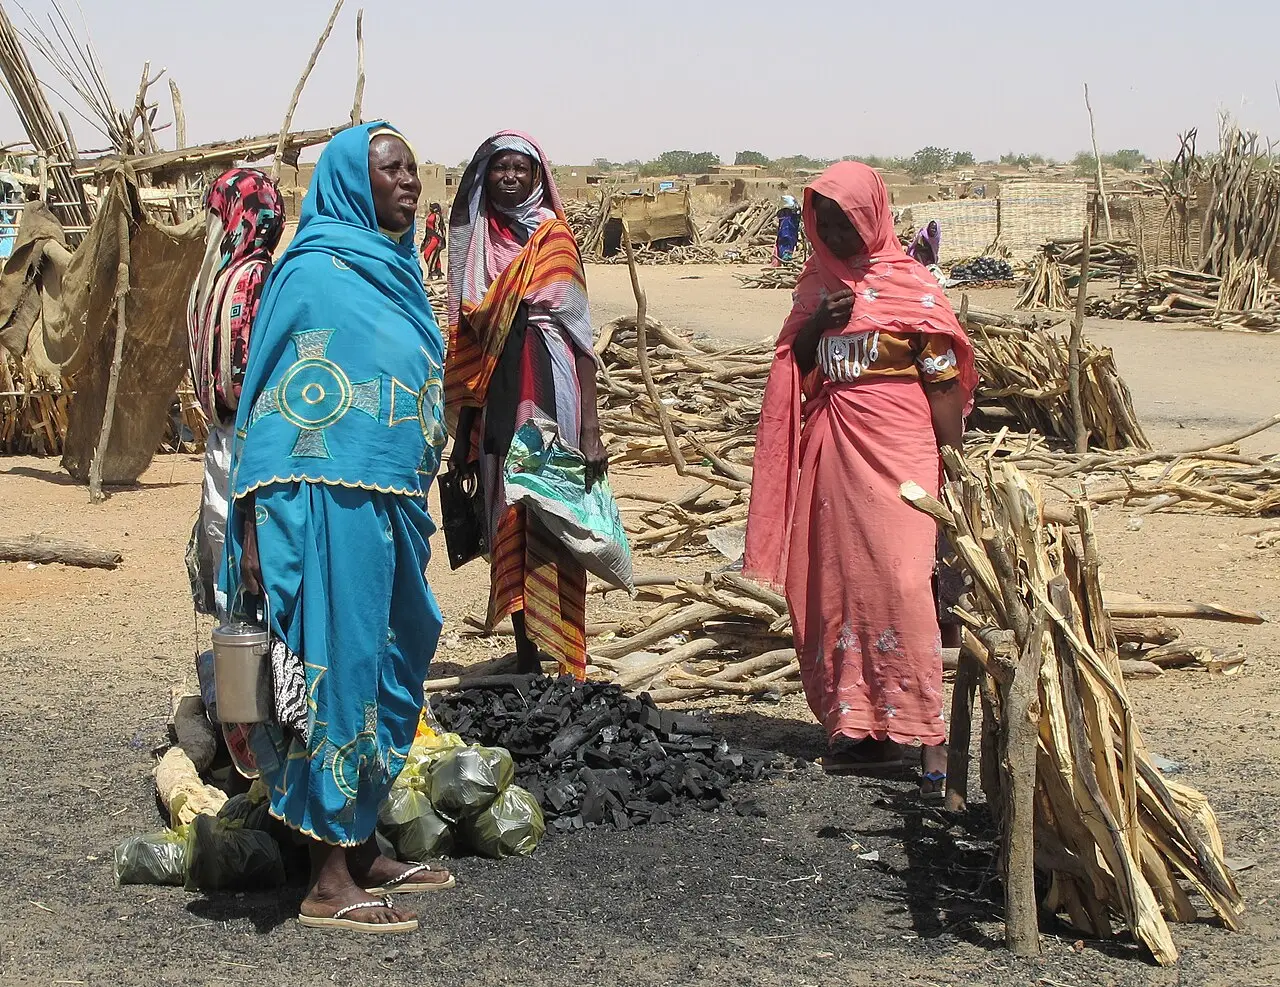
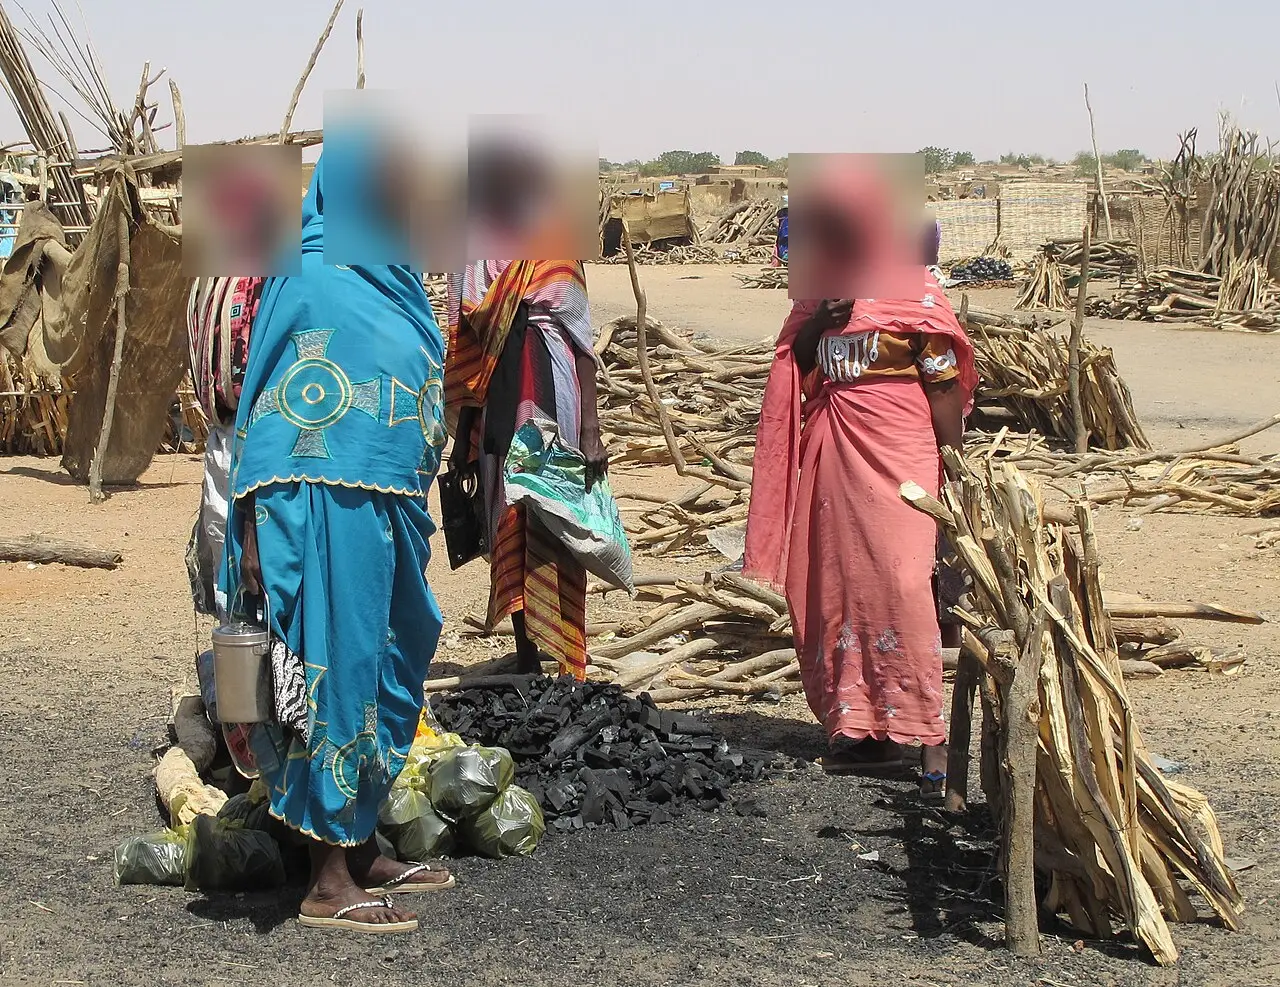
Focus Sudan: blur all faces in Adré and El Fasher photos
Claude-Session: https://claude.ai/code/session_01BJRqo8LpJ8hAQMrCsjYyd3

Changed region(s): [[0.125, 0.0912, 0.4688, 0.304], [0.5938, 0.152, 0.75, 0.304]]

diff --git a/focus/sudan-war.html b/focus/sudan-war.html
@@ -65,9 +65,9 @@ footer{font-size:12.5px;color:var(--muted);border-top:1px solid var(--rule);padd
 <header style="display:grid;gap:10px"><span class="kicker">Focus · Sudan</span><h1>Sudan&#x27;s long war</h1><p class="dek">Since 15 April 2023, fighting between Sudan&#x27;s army and the paramilitary Rapid Support Forces has killed at least 59,000 people by one count, and possibly far more, and driven about 13 million from their homes. Both sides deny targeting civilians. The war now reaches into Abyei and South Sudan.</p>
 <div class="meta"><span>Updated 22 Oct 2026</span><span>Life &amp; safety · Displacement · Food</span><span>4 photos</span></div>
 <a class="allf" href="./">Looking for another story? See all Focus stories →</a></header>
-<section class="cover"><figure><img src="../images/focus/sudan-war/adre-refugees-aid-2026.webp" alt="Women in long robes and headscarves walk across sandy ground carrying bags and boxes of supplies on their heads and in their arms, with more people behind them." loading="lazy" decoding="async"><figcaption><b>Photo from the event</b>Sudanese refugees carry aid supplies in Adré, eastern Chad, on 3 February 2026. The town had 40,000 people before the war and now hosts more than 180,000 refugees, the UK government says.<span class="cr">Photo: <a href="https://commons.wikimedia.org/wiki/File:Foreign_Secretary_Yvette_Cooper_meets_Sudanese_civil_war_refugees_in_Adr%C3%A9,_eastern_Chad_on_3_February_2026_-_6.jpg">Russell Watkins / FCDO, via Wikimedia Commons</a>, <a href="https://creativecommons.org/licenses/by/4.0">CC BY 4.0</a> (resized)</span></figcaption></figure></section>
+<section class="cover"><figure><img src="../images/focus/sudan-war/adre-refugees-aid-2026.webp" alt="Women in long robes and headscarves walk across sandy ground carrying bags and boxes of supplies on their heads and in their arms, with more people behind them." loading="lazy" decoding="async"><figcaption><b>Photo from the event</b>Sudanese refugees carry aid supplies in Adré, eastern Chad, on 3 February 2026. The town had 40,000 people before the war and now hosts more than 180,000 refugees, the UK government says.<span class="cr">Photo: <a href="https://commons.wikimedia.org/wiki/File:Foreign_Secretary_Yvette_Cooper_meets_Sudanese_civil_war_refugees_in_Adr%C3%A9,_eastern_Chad_on_3_February_2026_-_6.jpg">Russell Watkins / FCDO, via Wikimedia Commons</a>, <a href="https://creativecommons.org/licenses/by/4.0">CC BY 4.0</a> (resized, faces blurred)</span></figcaption></figure></section>
 <section class="figs" aria-label="Key numbers"><div class="fig"><b>59,000+</b><span>killed, ACLED count (estimates up to 150,000)</span><a href="https://www.cp24.com/news/world/2026/06/17/drone-strikes-kill-over-1000-civilians-in-sudan-in-first-5-months-of-2026-un-rights-chief-says/">AP via CP24</a></div><div class="fig"><b>~13M</b><span>people displaced</span><a href="https://www.aljazeera.com/news/2026/10/7/sudans-al-burhan-rejects-talks-vows-to-retake-all-territory-from-rsf">Al Jazeera</a></div><div class="fig"><b>6,000+</b><span>killed in 3 days in El Fasher (UN)</span><a href="https://www.opb.org/article/2026/02/15/un-says-at-least-6000-killed-over-3-days-during-rsf-attack-on-sudans-el-fasher/">AP via OPB</a></div><div class="fig"><b>19.5M</b><span>facing high acute hunger (IPC, May 2026)</span><a href="https://wtop.com/news/2026/05/over-40-of-sudans-population-face-high-levels-of-acute-food-insecurity-monitoring-group-warns/">AP via WTOP</a></div></section>
-<section style="display:grid;gap:14px"><div class="sec-h"><h2>What is happening</h2></div><div class="chaps"><div class="chap"><figure><img src="../images/focus/sudan-war/al-jaili-refinery-smoke-2025.webp" alt="A satellite view of brown desert and the green line of the Nile, with a long dark plume of smoke drifting south." loading="lazy" decoding="async"><figcaption><b>Photo from the event</b>A satellite image from 24 January 2025 shows black smoke from a fire at the Al-Jaili oil refinery, about 60 km north of Khartoum, drifting over the capital.<span class="cr">Photo: <a href="https://commons.wikimedia.org/wiki/File:Refinery_Fire_in_Sudan_(MODIS_2025-01-26).jpg">NASA Earth Observatory (MODIS, Aqua) / Wikimedia Commons</a>, <a href="https://commons.wikimedia.org/wiki/File:Refinery_Fire_in_Sudan_(MODIS_2025-01-26).jpg">Public domain (NASA)</a> (resized)</span></figcaption></figure><p>The war broke out in Khartoum on 15 April 2023, after the army and the Rapid Support Forces split over plans to fold the paramilitary into the military. The conflict monitor ACLED has recorded at least 59,000 deaths in three years and says the real toll is likely higher; in 2024 the US envoy cited estimates of up to 150,000. Both sides now use armed drones: the UN human rights office recorded more than 1,000 civilians killed by drone strikes between January and May 2026. <span class="src"><a href="https://www.cp24.com/news/world/2026/06/17/drone-strikes-kill-over-1000-civilians-in-sudan-in-first-5-months-of-2026-un-rights-chief-says/">AP via CP24</a> · <a href="https://www.aljazeera.com/news/2026/10/7/sudans-al-burhan-rejects-talks-vows-to-retake-all-territory-from-rsf">Al Jazeera</a> · <a href="https://acleddata.com/methodology/how-interpret-acleds-fatality-records-sudan">ACLED</a></span></p></div><div class="chap"><figure><img src="../images/focus/sudan-war/el-fasher-charcoal-market-2015.webp" alt="Three women in brightly coloured robes stand beside piles of firewood and charcoal at an open-air market." loading="lazy" decoding="async"><figcaption><b>File photo · 2015</b>Displaced women sell charcoal at a market in El Fasher, North Darfur, in 2015, years before the RSF siege of the city.<span class="cr">Photo: <a href="https://commons.wikimedia.org/wiki/File:ElFasherDarfurSudan_RomanDeckert18022015.jpg">Roman Deckert / Wikimedia Commons</a>, <a href="https://creativecommons.org/licenses/by-sa/4.0">CC BY-SA 4.0</a> (resized)</span></figcaption></figure><p>In Darfur, the RSF and allied militias besieged El Fasher for more than 18 months and overran it on 26 October 2025. The UN human rights office says more than 6,000 people were killed in just over three days: at least 4,400 inside the city and more than 1,600 as they fled. It says the real toll is “undoubtedly significantly higher” and that sexual violence was used systematically as a weapon of war. <span class="src"><a href="https://www.opb.org/article/2026/02/15/un-says-at-least-6000-killed-over-3-days-during-rsf-attack-on-sudans-el-fasher/">AP via OPB</a></span></p></div><div class="chap"><figure><img src="../images/focus/sudan-war/abyei-aerial-2009.webp" alt="Flat, dry savannah dotted with trees and round huts, seen from an aircraft window." loading="lazy" decoding="async"><figcaption><b>File photo · 2009</b>Abyei and the surrounding plain, seen from a UN helicopter. The area is claimed by both Sudan and South Sudan.<span class="cr">Photo: <a href="https://commons.wikimedia.org/wiki/File:Sudan_Envoy_-_Abyei_from_Above.jpg">Sudan Envoy / Wikimedia Commons</a>, <a href="https://creativecommons.org/licenses/by/2.0">CC BY 2.0</a> (cropped)</span></figcaption></figure><p>The war crosses borders. On Monday 19 October 2026 a drone strike on Amiet Market in Abyei, an area claimed by both Sudan and South Sudan, killed at least 153 people, a local official says. South Sudan blames Sudan&#x27;s army; an unnamed Sudanese officer told AP the army hit fuel tankers bound for the RSF. In November 2025 an RSF drone attack on the Heglig oil facility halted production and exports in parts of Sudan and South Sudan, where oil brings in more than 90% of government revenue. <span class="src"><a href="https://www.aljazeera.com/news/2026/10/21/drone-attack-in-disputed-sudan-south-sudan-border-region-kills-at-least-153">Al Jazeera</a> · <a href="https://www.radiotamazuj.org/en/news/article/south-sudan-oil-production-halted-after-drone-attack">Radio Tamazuj</a></span></p></div><div class="chap"><p>About 13 million people have been forced from their homes; UNHCR says 4.3 million are refugees in neighbouring countries, most in Egypt and eastern Chad. Famine was confirmed in Zamzam camp in 2024 and in El Fasher and Kadugli in 2025. In May 2026 the IPC found no area in famine but 14 areas at risk, and nearly 19.5 million people, more than 40% of the population, facing high levels of acute food insecurity. <span class="src"><a href="https://www.aljazeera.com/news/2026/10/7/sudans-al-burhan-rejects-talks-vows-to-retake-all-territory-from-rsf">Al Jazeera</a> · <a href="https://www.dabangasudan.org/en?p=20128493">Radio Dabanga</a> · <a href="https://wfp.org/news/famine-conditions-confirmed-sudans-el-fasher-and-kadugli-hunger-and-malnutrition-ease-where">WFP</a> · <a href="https://wtop.com/news/2026/05/over-40-of-sudans-population-face-high-levels-of-acute-food-insecurity-monitoring-group-warns/">AP via WTOP</a></span></p></div><div class="chap"><p>Both sides face accusations. In January 2025 the US found that the RSF was committing genocide; in 2025 it also found that Sudan&#x27;s government had used chemical weapons in 2024, which Sudan denies. The International Criminal Court says it has “concrete evidence” linking RSF leaders to recent war crimes in Darfur. UN-led talks on a ceasefire resumed in Geneva in October 2026 without either warring party at the table. <span class="src"><a href="https://www.clickondetroit.com/news/world/2025/01/07/us-says-sudan-rebel-force-has-committed-genocide-and-it-imposes-sanctions-on-the-groups-leaders/">AP via ClickOnDetroit</a> · <a href="https://www.upi.com/Top_News/US/2025/05/23/Sudan-chemical-weapons/6801747971956/">UPI</a> · <a href="https://www.myjoyonline.com/international-court-tells-bbc-of-breakthrough-in-sudan-war-crimes-probe/">BBC via MyJoyOnline</a> · <a href="https://news.un.org/en/story/2026/10/1168638">UN News</a></span></p></div></div><div class="official"><b>Official position</b><p>Army chief Abdel Fattah al-Burhan rejects negotiations and says the “military option” will continue until the RSF is removed from Sudan. The RSF has repeatedly denied widespread killings in Darfur; its leader, Mohamed Hamdan Dagalo, has acknowledged abuses by his fighters but disputed their scale, and the RSF and its allies have formed a parallel government in areas they hold. The RSF did not respond to AP&#x27;s request for comment on the UN&#x27;s El Fasher findings. <span class="src"><a href="https://www.aljazeera.com/news/2026/10/7/sudans-al-burhan-rejects-talks-vows-to-retake-all-territory-from-rsf">Al Jazeera</a> · <a href="https://www.myjoyonline.com/international-court-tells-bbc-of-breakthrough-in-sudan-war-crimes-probe/">BBC via MyJoyOnline</a> · <a href="https://www.opb.org/article/2026/02/15/un-says-at-least-6000-killed-over-3-days-during-rsf-attack-on-sudans-el-fasher/">AP via OPB</a> · <a href="https://www.clickondetroit.com/news/2025/07/27/sudans-paramilitaries-announces-a-parallel-government-deepening-the-countrys-crisis/">AP via ClickOnDetroit</a></span></p></div></section>
+<section style="display:grid;gap:14px"><div class="sec-h"><h2>What is happening</h2></div><div class="chaps"><div class="chap"><figure><img src="../images/focus/sudan-war/al-jaili-refinery-smoke-2025.webp" alt="A satellite view of brown desert and the green line of the Nile, with a long dark plume of smoke drifting south." loading="lazy" decoding="async"><figcaption><b>Photo from the event</b>A satellite image from 24 January 2025 shows black smoke from a fire at the Al-Jaili oil refinery, about 60 km north of Khartoum, drifting over the capital.<span class="cr">Photo: <a href="https://commons.wikimedia.org/wiki/File:Refinery_Fire_in_Sudan_(MODIS_2025-01-26).jpg">NASA Earth Observatory (MODIS, Aqua) / Wikimedia Commons</a>, <a href="https://commons.wikimedia.org/wiki/File:Refinery_Fire_in_Sudan_(MODIS_2025-01-26).jpg">Public domain (NASA)</a> (resized)</span></figcaption></figure><p>The war broke out in Khartoum on 15 April 2023, after the army and the Rapid Support Forces split over plans to fold the paramilitary into the military. The conflict monitor ACLED has recorded at least 59,000 deaths in three years and says the real toll is likely higher; in 2024 the US envoy cited estimates of up to 150,000. Both sides now use armed drones: the UN human rights office recorded more than 1,000 civilians killed by drone strikes between January and May 2026. <span class="src"><a href="https://www.cp24.com/news/world/2026/06/17/drone-strikes-kill-over-1000-civilians-in-sudan-in-first-5-months-of-2026-un-rights-chief-says/">AP via CP24</a> · <a href="https://www.aljazeera.com/news/2026/10/7/sudans-al-burhan-rejects-talks-vows-to-retake-all-territory-from-rsf">Al Jazeera</a> · <a href="https://acleddata.com/methodology/how-interpret-acleds-fatality-records-sudan">ACLED</a></span></p></div><div class="chap"><figure><img src="../images/focus/sudan-war/el-fasher-charcoal-market-2015.webp" alt="Three women in brightly coloured robes stand beside piles of firewood and charcoal at an open-air market." loading="lazy" decoding="async"><figcaption><b>File photo · 2015</b>Displaced women sell charcoal at a market in El Fasher, North Darfur, in 2015, years before the RSF siege of the city.<span class="cr">Photo: <a href="https://commons.wikimedia.org/wiki/File:ElFasherDarfurSudan_RomanDeckert18022015.jpg">Roman Deckert / Wikimedia Commons</a>, <a href="https://creativecommons.org/licenses/by-sa/4.0">CC BY-SA 4.0</a> (resized, faces blurred)</span></figcaption></figure><p>In Darfur, the RSF and allied militias besieged El Fasher for more than 18 months and overran it on 26 October 2025. The UN human rights office says more than 6,000 people were killed in just over three days: at least 4,400 inside the city and more than 1,600 as they fled. It says the real toll is “undoubtedly significantly higher” and that sexual violence was used systematically as a weapon of war. <span class="src"><a href="https://www.opb.org/article/2026/02/15/un-says-at-least-6000-killed-over-3-days-during-rsf-attack-on-sudans-el-fasher/">AP via OPB</a></span></p></div><div class="chap"><figure><img src="../images/focus/sudan-war/abyei-aerial-2009.webp" alt="Flat, dry savannah dotted with trees and round huts, seen from an aircraft window." loading="lazy" decoding="async"><figcaption><b>File photo · 2009</b>Abyei and the surrounding plain, seen from a UN helicopter. The area is claimed by both Sudan and South Sudan.<span class="cr">Photo: <a href="https://commons.wikimedia.org/wiki/File:Sudan_Envoy_-_Abyei_from_Above.jpg">Sudan Envoy / Wikimedia Commons</a>, <a href="https://creativecommons.org/licenses/by/2.0">CC BY 2.0</a> (cropped)</span></figcaption></figure><p>The war crosses borders. On Monday 19 October 2026 a drone strike on Amiet Market in Abyei, an area claimed by both Sudan and South Sudan, killed at least 153 people, a local official says. South Sudan blames Sudan&#x27;s army; an unnamed Sudanese officer told AP the army hit fuel tankers bound for the RSF. In November 2025 an RSF drone attack on the Heglig oil facility halted production and exports in parts of Sudan and South Sudan, where oil brings in more than 90% of government revenue. <span class="src"><a href="https://www.aljazeera.com/news/2026/10/21/drone-attack-in-disputed-sudan-south-sudan-border-region-kills-at-least-153">Al Jazeera</a> · <a href="https://www.radiotamazuj.org/en/news/article/south-sudan-oil-production-halted-after-drone-attack">Radio Tamazuj</a></span></p></div><div class="chap"><p>About 13 million people have been forced from their homes; UNHCR says 4.3 million are refugees in neighbouring countries, most in Egypt and eastern Chad. Famine was confirmed in Zamzam camp in 2024 and in El Fasher and Kadugli in 2025. In May 2026 the IPC found no area in famine but 14 areas at risk, and nearly 19.5 million people, more than 40% of the population, facing high levels of acute food insecurity. <span class="src"><a href="https://www.aljazeera.com/news/2026/10/7/sudans-al-burhan-rejects-talks-vows-to-retake-all-territory-from-rsf">Al Jazeera</a> · <a href="https://www.dabangasudan.org/en?p=20128493">Radio Dabanga</a> · <a href="https://wfp.org/news/famine-conditions-confirmed-sudans-el-fasher-and-kadugli-hunger-and-malnutrition-ease-where">WFP</a> · <a href="https://wtop.com/news/2026/05/over-40-of-sudans-population-face-high-levels-of-acute-food-insecurity-monitoring-group-warns/">AP via WTOP</a></span></p></div><div class="chap"><p>Both sides face accusations. In January 2025 the US found that the RSF was committing genocide; in 2025 it also found that Sudan&#x27;s government had used chemical weapons in 2024, which Sudan denies. The International Criminal Court says it has “concrete evidence” linking RSF leaders to recent war crimes in Darfur. UN-led talks on a ceasefire resumed in Geneva in October 2026 without either warring party at the table. <span class="src"><a href="https://www.clickondetroit.com/news/world/2025/01/07/us-says-sudan-rebel-force-has-committed-genocide-and-it-imposes-sanctions-on-the-groups-leaders/">AP via ClickOnDetroit</a> · <a href="https://www.upi.com/Top_News/US/2025/05/23/Sudan-chemical-weapons/6801747971956/">UPI</a> · <a href="https://www.myjoyonline.com/international-court-tells-bbc-of-breakthrough-in-sudan-war-crimes-probe/">BBC via MyJoyOnline</a> · <a href="https://news.un.org/en/story/2026/10/1168638">UN News</a></span></p></div></div><div class="official"><b>Official position</b><p>Army chief Abdel Fattah al-Burhan rejects negotiations and says the “military option” will continue until the RSF is removed from Sudan. The RSF has repeatedly denied widespread killings in Darfur; its leader, Mohamed Hamdan Dagalo, has acknowledged abuses by his fighters but disputed their scale, and the RSF and its allies have formed a parallel government in areas they hold. The RSF did not respond to AP&#x27;s request for comment on the UN&#x27;s El Fasher findings. <span class="src"><a href="https://www.aljazeera.com/news/2026/10/7/sudans-al-burhan-rejects-talks-vows-to-retake-all-territory-from-rsf">Al Jazeera</a> · <a href="https://www.myjoyonline.com/international-court-tells-bbc-of-breakthrough-in-sudan-war-crimes-probe/">BBC via MyJoyOnline</a> · <a href="https://www.opb.org/article/2026/02/15/un-says-at-least-6000-killed-over-3-days-during-rsf-attack-on-sudans-el-fasher/">AP via OPB</a> · <a href="https://www.clickondetroit.com/news/2025/07/27/sudans-paramilitaries-announces-a-parallel-government-deepening-the-countrys-crisis/">AP via ClickOnDetroit</a></span></p></div></section>
 <p class="src">In the daily edition: <a href="../archive/2026-10-22.html">Thu 22 Oct</a> · <a href="../archive/2026-10-21.html">Wed 21 Oct</a> · <a href="../archive/2026-10-20.html">Tue 20 Oct</a> · <a href="../archive/2026-10-19.html">Mon 19 Oct</a></p>
 <a class="allf big" href="./"><span>More in-depth stories, every fact sourced</span><b>See all Focus stories →</b></a>
 <footer><span>Resistance Daily is a non-partisan public record of human-rights events. Every fact links to its source.</span>
